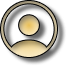
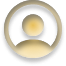
navbar css update, light mode

diff --git a/frontend/src/components/Navbar/Navbar.jsx b/frontend/src/components/Navbar/Navbar.jsx
@@ -4,7 +4,6 @@ import { useContext, useState } from "react";
 import signout from "../../assets/images/signout.png";
 import ProfileIcone from "../../assets/images/🦆 icon _profile circle_.png";
 import LogoInovin from "../../assets/images/logo_inovin.png";
-import lightLogo from "../../assets/images/logo2.png";
 import UserContext from "../../contexts/UserContext";
 import sun from "../../assets/images/sun.png";
 import moon from "../../assets/images/moon.png";
@@ -43,13 +42,17 @@ function Navbar() {
       <div className="navHeader">
         <p className="logo">
           <Link to="/">
-            <img src={lightMode ? lightLogo : LogoInovin} alt="Logo Ino Vin" />
+            <img
+              className={lightMode ? "lightLogo" : "darkLogo"}
+              src={LogoInovin}
+              alt="Logo Ino Vin"
+            />
           </Link>
         </p>
         <h1 className={lightMode ? "InovinlightMode" : "inovinTitle"}>
           Ino Vin
         </h1>
-        <div>
+        <div className="connect">
           {firstname ? (
             <h3 className="username">{firstname}</h3>
           ) : (
@@ -93,6 +96,17 @@ function Navbar() {
                 aria-label="Inscription"
               />
             )}
+            <div className="mode_icons">
+              <button type="button" className="icon" onClick={toggleLightMode}>
+                {" "}
+                <img
+                  id={lightMode ? "sun" : "moon"}
+                  className="mode"
+                  src={lightMode ? sun : moon}
+                  alt={lightMode ? "moon" : "sun"}
+                />
+              </button>
+            </div>
           </div>
           {disconnect && (
             <div className="modal">
@@ -125,17 +139,6 @@ function Navbar() {
               </div>
             </div>
           )}
-        </div>
-        <div className="mode_icons">
-          <button type="button" className="icon" onClick={toggleLightMode}>
-            {" "}
-            <img
-              id={lightMode ? "sun" : "moon"}
-              className="mode"
-              src={lightMode ? sun : moon}
-              alt={lightMode ? "moon" : "sun"}
-            />
-          </button>
         </div>
       </div>
     </div>

diff --git a/frontend/src/components/Navbar/Navbar.scss b/frontend/src/components/Navbar/Navbar.scss
@@ -4,6 +4,7 @@
   justify-content: space-around;
   align-items: center;
   height: 15vh;
+  justify-content: space-around;
 }
 
 .logo {
@@ -26,6 +27,7 @@
   margin-right: 10px;
   background-color: #0000;
   border: none;
+  padding-top: 1vh;
 }
 
 .username {
@@ -101,7 +103,10 @@
     width: 6vw;
   }
 }
-
+.connect {
+  display: flex;
+  flex-direction: column;
+}
 @media (orientation: portrait) {
   #Mcontent {
     position: relative;
@@ -123,11 +128,10 @@
   z-index: 100;
   display: flex;
   flex-direction: row;
-  position: relative;
-  top: 15vh;
-  right: 10vw;
   justify-content: center;
   align-items: first baseline;
+  position: relative;
+  top: -2vh;
 }
 .icon {
   cursor: pointer;

diff --git a/frontend/src/LightMode.scss b/frontend/src/LightMode.scss
@@ -76,3 +76,6 @@
     margin: 5% 5% 5% 5%;
   }
 }
+.lightLogo {
+  filter: drop-shadow(4px 3px #696969);
+}
